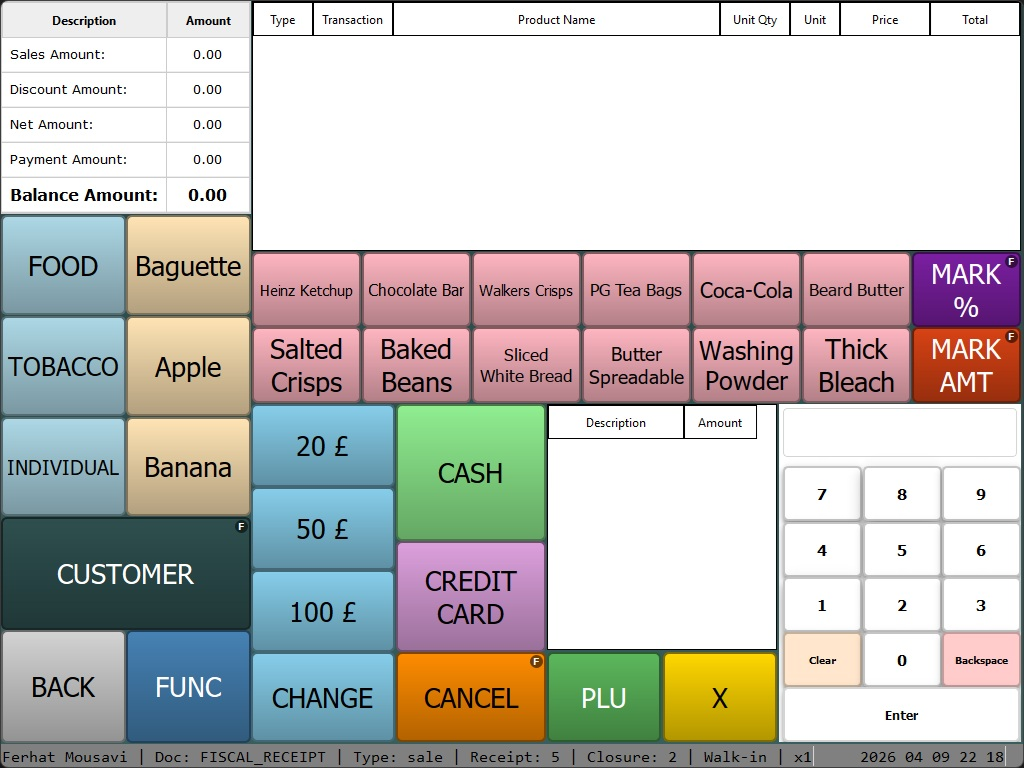
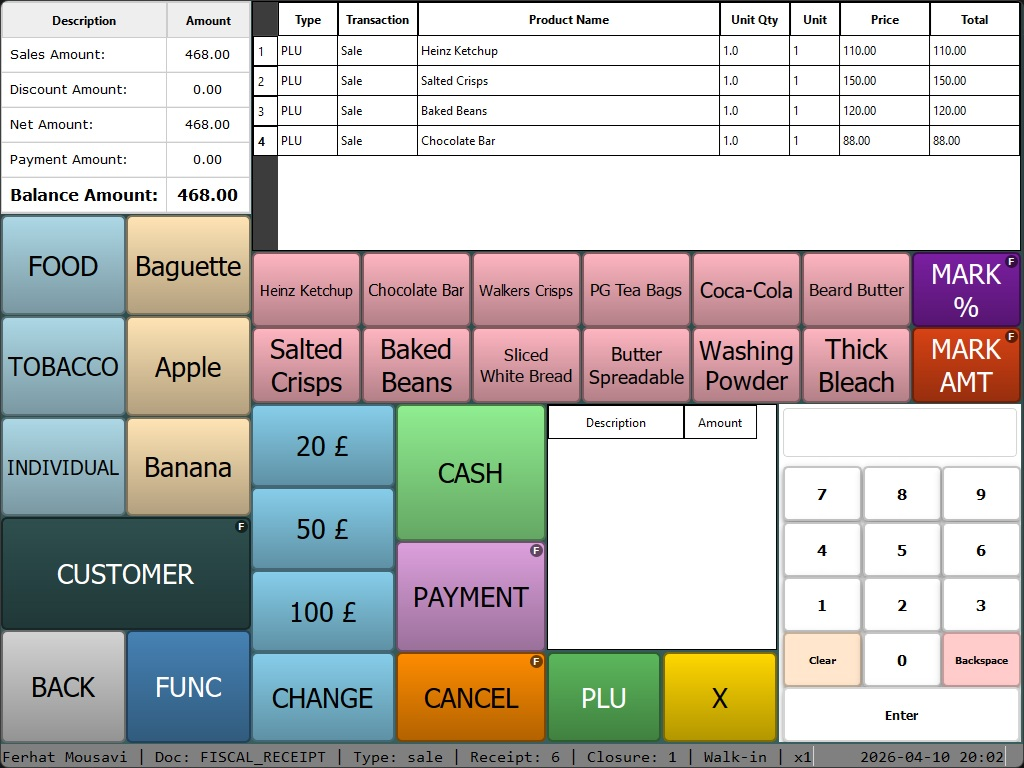
docs: add PAYMENT form screenshot (sample_sale_payment_form.jpg) to README, PyPOS_GUIDE, and sale-transactions docs; list asset in docs index and introduce PAYMENT in introduction screen table

diff --git a/docs/README.md b/docs/README.md
@@ -8,7 +8,7 @@ Complete user and developer guide for the SaleFlex.PyPOS point-of-sale applicati
 
 Touch UI reference images live under [`static_files/images/`](../static_files/images/) in the project root (same paths as the root [`README.md`](../README.md) **First Login** tour). Filenames include:
 
-`sample_login.jpg`, `sample_main_menu.jpg`, `sample_sale_form.jpg`, `sample_sale_func_dual_functions_form.jpg`, `sample_sale_customer_form.jpg`, `sample_closure_form.jpg`, `sample_closure_detail_form.jpg`, `sample_closure_receipts_form.jpg`, `sample_closure_receipt_details_form.jpg`, `sample_settings_form.jpg`, `sample_cashier_form.jpg`, `sample_cashier_add_form.jpg`, `sample_product_form.jpg`, `sample_product_detail_form.jpg`, `sample_customer_list_form.jpg`, `sample_customer_detail_form.jpg`, `sample_warehouse_list_form.jpg`, `sample_warehouse_stock_in_form.jpg`, `sample_warehouse_adjustment_form.jpg`, `sample_warehouse_history_form.jpg`.
+`sample_login.jpg`, `sample_main_menu.jpg`, `sample_sale_form.jpg`, `sample_sale_func_dual_functions_form.jpg`, `sample_sale_payment_form.jpg`, `sample_sale_customer_form.jpg`, `sample_closure_form.jpg`, `sample_closure_detail_form.jpg`, `sample_closure_receipts_form.jpg`, `sample_closure_receipt_details_form.jpg`, `sample_settings_form.jpg`, `sample_cashier_form.jpg`, `sample_cashier_add_form.jpg`, `sample_product_form.jpg`, `sample_product_detail_form.jpg`, `sample_customer_list_form.jpg`, `sample_customer_detail_form.jpg`, `sample_warehouse_list_form.jpg`, `sample_warehouse_stock_in_form.jpg`, `sample_warehouse_adjustment_form.jpg`, `sample_warehouse_history_form.jpg`.
 
 In Markdown under `docs/`, reference them as `../static_files/images/<filename>`.
 

diff --git a/README.md b/README.md
@@ -400,6 +400,10 @@ With alternate labels active, tap **CUSTOMER** to open the Customer List in *sal
 
 Tap **PAYMENT** (alternate label on **CREDIT CARD**) to open the dedicated **PAYMENT** form: **AMOUNTSTABLE**, **PAYMENTLIST**, **NUMPAD**, **BACK**, and buttons for all standard payment categories (cash, card, cheque, on credit, prepaid, mobile, bonus, exchange, current account, bank transfer). **BACK** returns to the SALE form; completing the sale from this screen returns to SALE with a new empty document. See [Sale Transactions — PAYMENT form](docs/10-sale-transactions.md#payment-form).
 
+![PAYMENT form](static_files/images/sample_sale_payment_form.jpg)
+
+> **PAYMENT** screen: live totals, payment-type grid, tender log (**PAYMENTLIST**), **NUMPAD** for amounts in minor units, **BACK**, and **CHANGE**. Use split tenders until the balance reaches zero; each payment type expects a NumPad amount first (unlike quick pay on the main SALE layout).
+
 ![Sale Form — CUSTOMER assignment](static_files/images/sample_sale_customer_form.jpg)
 
 > SALE form illustrating the **CUSTOMER** path from the dual-function row (after **FUNC**), next to **BACK** and **FUNC**.

diff --git a/PyPOS_GUIDE.md b/PyPOS_GUIDE.md
@@ -47,6 +47,8 @@ After **FUNC**, dual-function buttons show their alternate labels (e.g. **SUB TO
 
 **Full payment screen:** With alternate labels visible, **PAYMENT** opens `FormName.PAYMENT` — same document as SALE, with **AMOUNTSTABLE**, **PAYMENTLIST**, **NUMPAD**, **BACK**, and one button per payment category (aligned with `PaymentType` in code: cash, card, cheque, on credit, prepaid, mobile, bonus, exchange, current account, bank transfer). Details: [Sale Transactions — PAYMENT form](docs/10-sale-transactions.md#payment-form).
 
+![PAYMENT form](static_files/images/sample_sale_payment_form.jpg)
+
 ### Suspend a Sale (Market Mode)
 
 Press **SUSPEND** on the SALE screen to park the current cart. A new empty draft is created for the next customer. To resume a parked sale, press **SUSPEND** with no open document → select a row → press **ACTIVATE**.

diff --git a/docs/10-sale-transactions.md b/docs/10-sale-transactions.md
@@ -233,6 +233,8 @@ Two **dual-function** buttons appear in the top-right corner of the product shor
 
 Enum / DB name: **`FormName.PAYMENT`** (default seed `form_no` **20**). Opened from SALE after **FUNC** → **PAYMENT** (dual caption on **CREDIT CARD**) only when there is a payable open receipt (head present, not closed/cancelled/completed, `total_amount` > 0, document not already complete); otherwise a modal error is shown and the form does not open. **BACK** returns to SALE (form history). The same active sale document is used; payments post through the existing `PaymentService` handlers.
 
+![PAYMENT form — totals, payment grid, tender log, NumPad](../static_files/images/sample_sale_payment_form.jpg)
+
 | Area | Description |
 |------|-------------|
 | **AMOUNTSTABLE** | Live totals (same control family as SALE) |

diff --git a/docs/01-introduction.md b/docs/01-introduction.md
@@ -28,6 +28,7 @@ Built with PySide6 (Qt framework) and SQLAlchemy ORM, SaleFlex.PyPOS features:
 | **LOGIN** | Cashier selection and password entry |
 | **MAIN MENU** | Navigation hub to Sales, Closure, Configuration, Cashier Management |
 | **SALE** | Point-of-sale transaction screen with NumPad, product list, payment area |
+| **PAYMENT** | Dedicated payment form (`FormName.PAYMENT`): totals, payment-type grid, tender log, NumPad — opened from SALE after **FUNC** → **PAYMENT** (see [Sale Transactions — PAYMENT form](10-sale-transactions.md#payment-form)) |
 | **SUSPENDED SALES** | List of parked (pending) transactions for resumption |
 | **CLOSURE** | End-of-day closure execution screen |
 | **SETTING** | POS system configuration (IP, ports, currency, hardware) |
